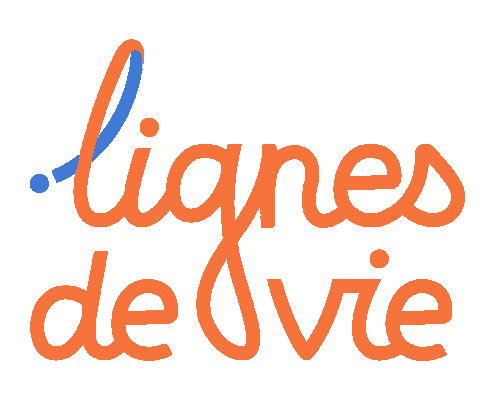
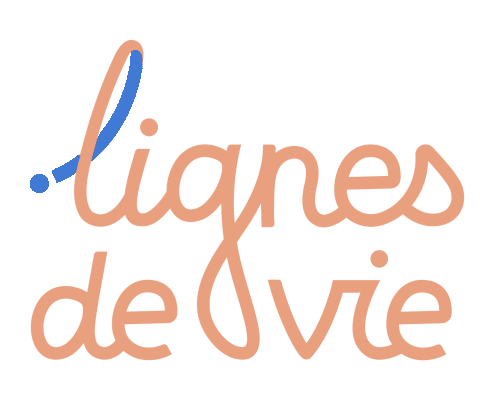
Tweak colors a bit more

Changed region(s): [[0.1518, 0.09, 0.9413, 0.9], [0.0607, 0.63, 0.3644, 0.9]]

diff --git a/web/ldv-recherche.fr/static/ldv.css b/web/ldv-recherche.fr/static/ldv.css
@@ -18,7 +18,7 @@
 
 html {
     --primary_color: #417ad5;
-    --secondary_color: #f6743c;
+    --secondary_color: #e98456;
 
     --top_height: 80px;
     --top_background: #fdfbf8;
@@ -137,7 +137,7 @@ button { border-radius: 10px; }
 .banner > .title {
     padding: 0.8em 1.2em;
     align-self: start;
-    background: #f6743c;
+    background: #e9a07f;
     color: white;
     border-radius: 16px;
     z-index: 1;
@@ -145,7 +145,7 @@ button { border-radius: 10px; }
 .banner > .intro {
     margin: -20px 2em 1em 2em;
     padding: calc(1em + 20px) 1em 1em 1em;
-    border-left: 4px solid #f6743c;
+    border-left: 4px solid #e9a07f;
     border-radius: 0 16px 16px 0;
     background: #fdfbf8;
 }
@@ -189,7 +189,7 @@ p + .columns { margin-top: 2em; }
 }
 .tabbar > a:hover { color: white; }
 .tabbar > a.active {
-    background: #f6743c;
+    background: #e98456;
     cursor: default;
 }
 .tab {
@@ -307,7 +307,7 @@ p + .columns { margin-top: 2em; }
     width: 133px;
     height: 133px;
     border-radius: 50%;
-    border: 4px solid #f6743c;
+    border: 4px solid #e9a07f;
 }
 .team .name {
     font-weight: bold;
